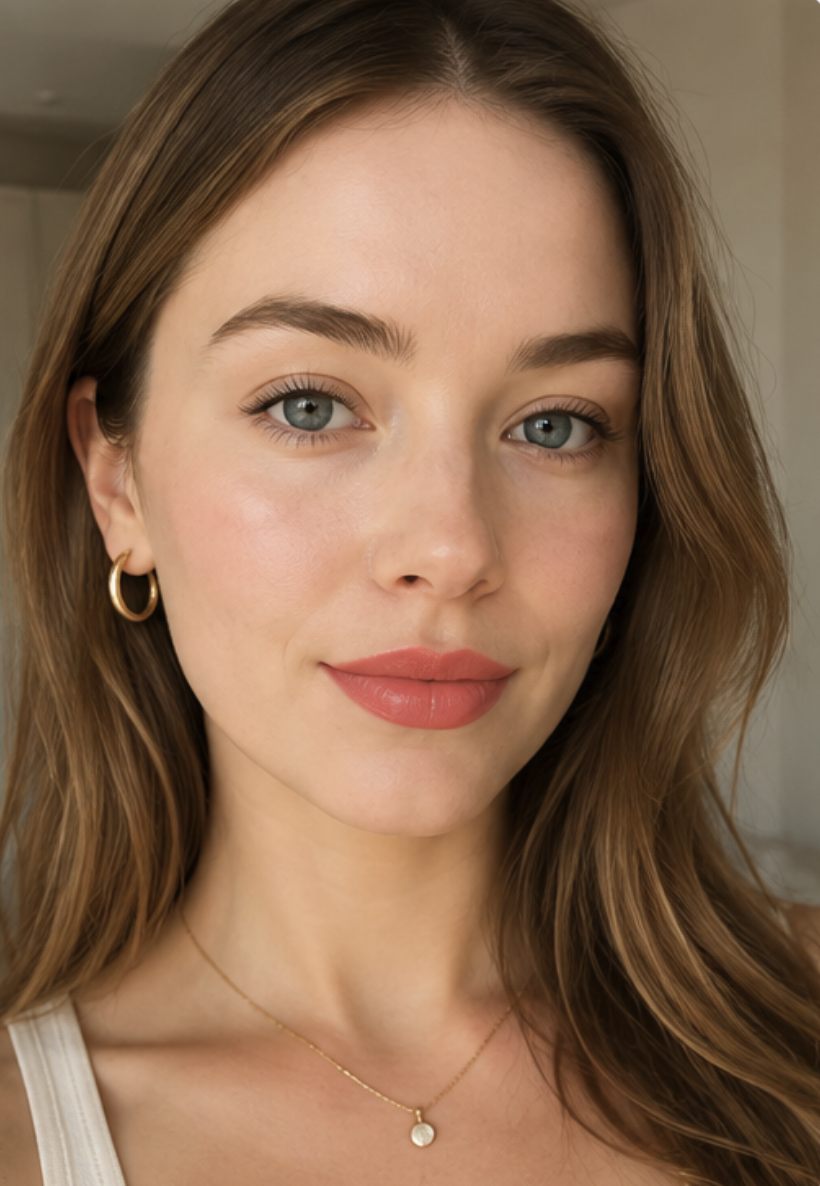
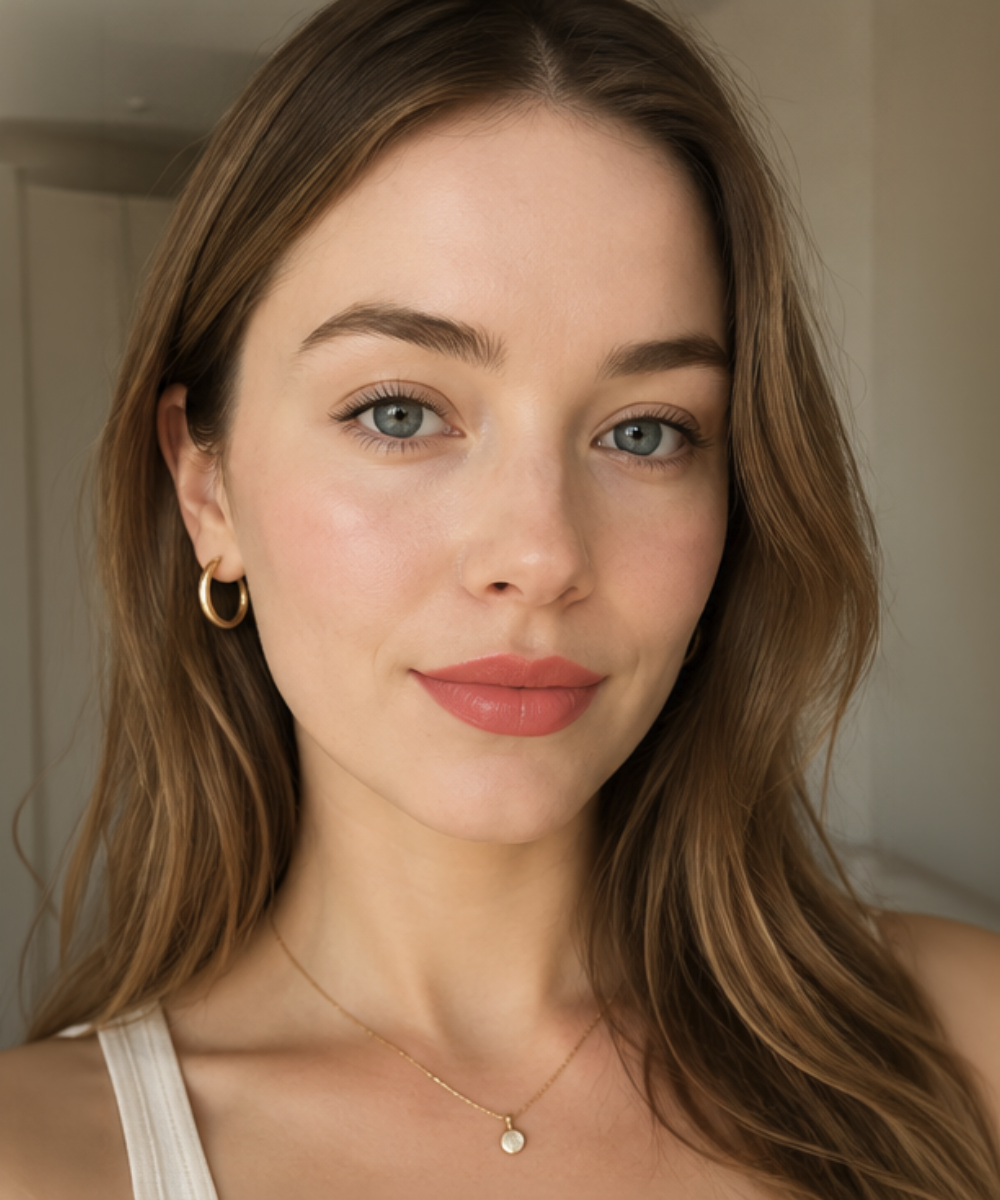
Fix desktop hero video crop + restore mobile Flow-Grid arrow rotation
Desktop hero video (A+B): the video was forced to width:100%/height:100%
to exactly fill .hero__top's box, which rarely matches its native
2880:1254 ratio — object-fit:cover was cropping deep into the actual
recorded content (UI panels, labels) at the top and bottom instead of
just trimming empty margin. Now sized by width with the real
aspect-ratio and vertically centered, so it's never stretched
vertically; verified in-browser at 1280px wide the rendered video now
matches its native aspect ratio to 4 decimal places (2.2967 vs 2.2967),
vs. being squashed to whatever ratio the container happened to be.

Mobile Flow-Grid arrows (B): the card-choreography reveal states
added earlier (transform: translateY(...)) aren't additive with CSS
transforms — they were silently replacing the 767px/1023px
transform:rotate(90deg) that's supposed to point the arrows downward
once stacked, leaving them pointing right again as soon as revealed.
Redeclared the staged/visible states inside the same mobile breakpoint
with the rotation folded into the transform.

Also added .claude/launch.json (python3 -m http.server) so the page
can be previewed through a real local server instead of the Browser
pane's static file:// snapshot mode, which doesn't execute JS/apply
external stylesheets.

diff --git a/css/styles.css b/css/styles.css
@@ -319,7 +319,23 @@ p { margin: 0; }
 }
 .hero__variant--a .hero__video video,
 .hero__variant--b .hero__video video {
-  aspect-ratio: auto;
+  /* Previously width:100%/height:100% (inherited from the base rule above)
+     forced the video to stretch to fill .hero__top's own box exactly —
+     since .hero__top's shape (very wide, short) rarely matches the video's
+     native 2880:1254 ratio, object-fit:cover was cropping deep into the
+     top and bottom to make up the difference (cutting into the actual
+     UI content in the recording, not just empty margin). Sizing by width
+     with the real aspect-ratio instead means it's never stretched
+     vertically — centered so that on any viewport short enough for it to
+     still overflow the hero, .hero__video's own overflow:hidden trims an
+     equal sliver off both edges instead of one specific edge losing content. */
+  position: absolute;
+  top: 50%;
+  left: 0;
+  width: 100%;
+  height: auto;
+  aspect-ratio: 2880 / 1254; /* native size of video-hero.mp4 (both A and B) */
+  transform: translateY(-50%);
 }
 .hero__content {
   position: relative;
@@ -1908,6 +1924,12 @@ p { margin: 0; }
   .diagram-section__body { flex-direction: column; }
   .flow-grid { flex-direction: column; }
   .flow-grid__arrow { transform: rotate(90deg); }
+  /* transform isn't additive — the reveal states below (translateY) would
+     otherwise replace this rotation outright instead of combining with it,
+     which is exactly what was leaving the arrows pointing right again once
+     revealed. Redeclare each state here with the rotation folded in. */
+  .flow-grid.is-staged .flow-grid__arrow { transform: rotate(90deg) translateY(16px); }
+  .flow-grid.is-staged .flow-grid__arrow.is-visible { transform: rotate(90deg) translateY(0); }
   .horizontal-steps { flex-direction: column; gap: 24px; }
   .horizontal-steps__divider { align-self: flex-start; width: 1px; height: 24px; margin: 0 0 0 13px; }
   .horizontal-steps__divider-fill { width: 100%; height: 0%; transition: height 0.6s ease; }
